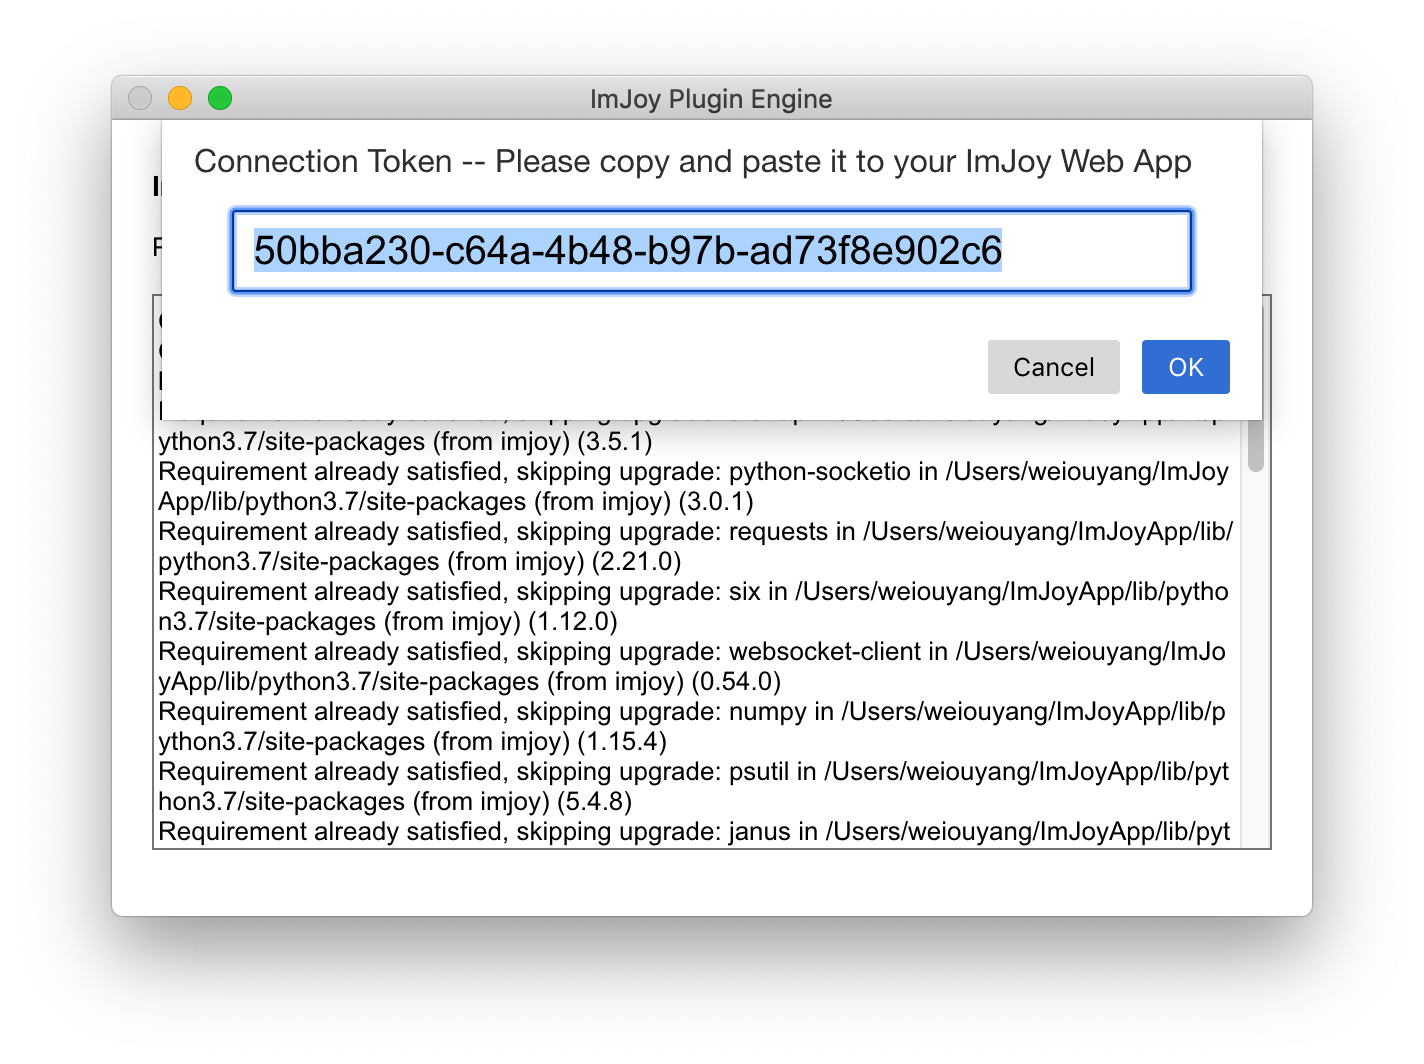
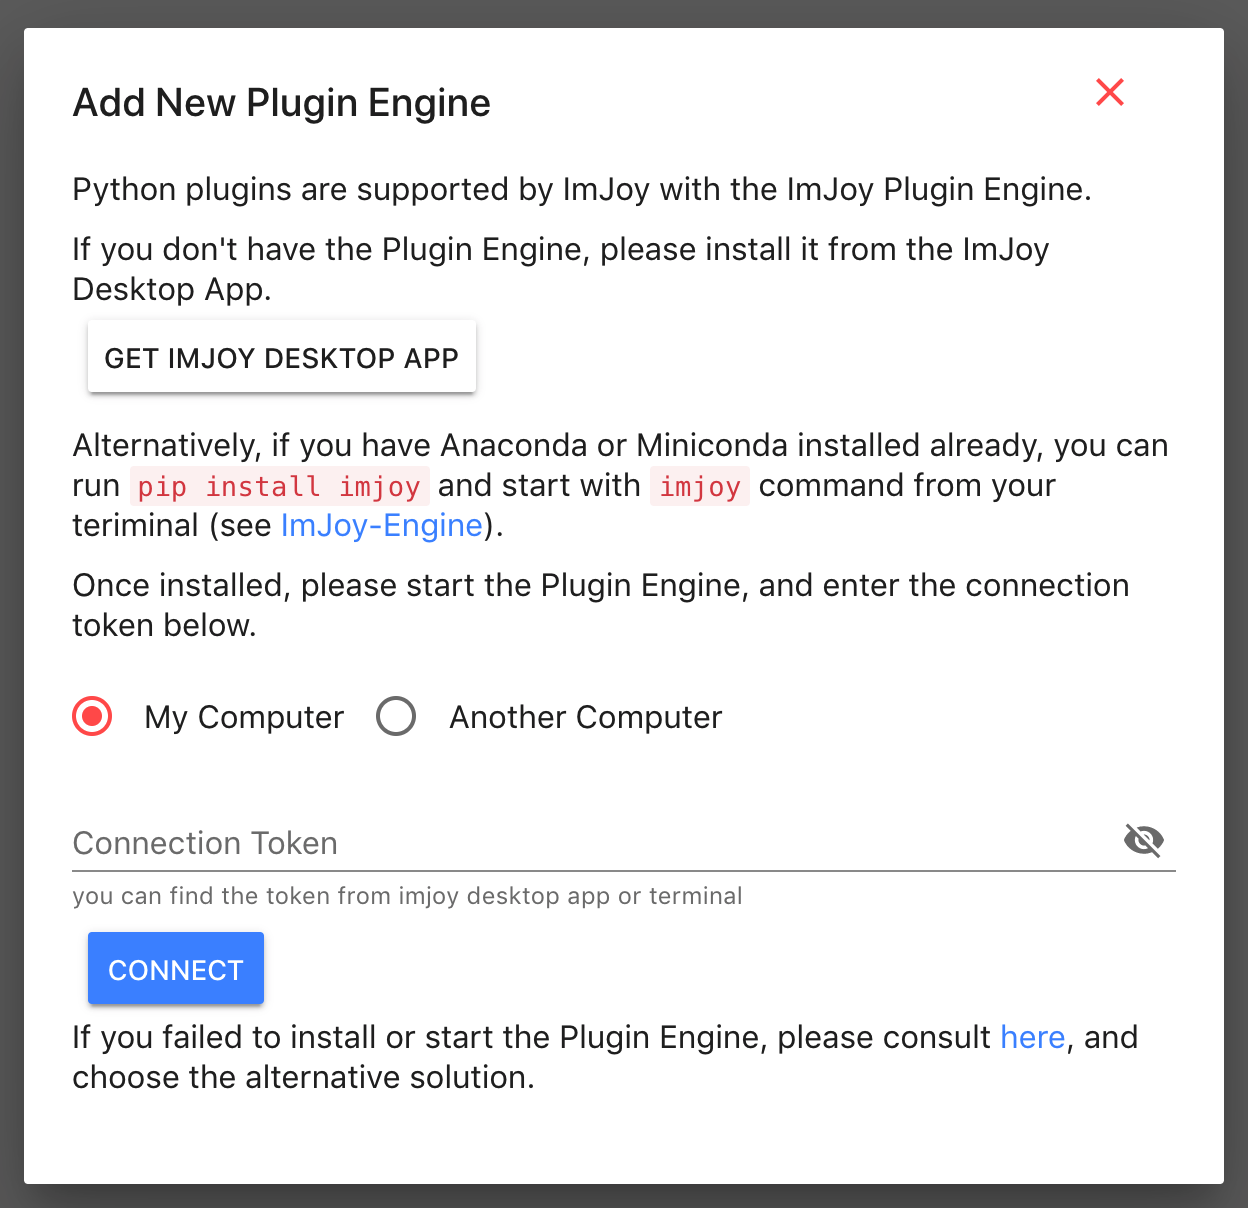
Improve docs about offline and remote access (#231)
* improve docs about offline and remote access

* fix format

* small fix

* add pointers for tutorials in HTML, async etc.

* add instructions about https for cameras etc.

diff --git a/web/src/components/EngineControlPanel.vue b/web/src/components/EngineControlPanel.vue
@@ -158,6 +158,12 @@
           <md-radio v-model="url_type" value="remote"
             >Another Computer</md-radio
           >
+          <p v-if="url_type === 'remote'">
+            You may want to use
+            <a href="https://telebit.cloud/" target="_blank">Telebit</a> or
+            <a href="https://ngrok.com/" target="_blank">ngrok</a> to make your
+            plugin engine available outside your network.
+          </p>
         </div>
         <md-autocomplete
           v-if="url_type === 'remote'"

diff --git a/docs/user_manual.md b/docs/user_manual.md
@@ -34,14 +34,25 @@ Imjoy consists of **three parts**, each part can be extended with plugins:
 
 1. **Native Computational Backend**. This is supported with the installation of an additional Python module called ["ImJoy Plugin Engine"](https://github.com/oeway/ImJoy-Engine). This allows to access the entire Python ecosystem which covers most of the scientific computing applications. With [Conda](https://conda.io), ImJoy plugin engine handles the requirements of plugins automatically and provide isolate processes and virtual environments for different Python plugins. It provides maximum flexibility and has full access to the file system, GPU and other local or remote resources. The plugin engine can be launched either on the local machine, or remotely on a cloud server or a cluster to perform computationally intensive tasks, e.g. with institutional computing cluster, Amazon Cloud, or Google Compute.
 
-## ImJoy App and Plugin Engine
+## ImJoy App
 
-ImJoy can be used  directly from your browser (Chrome or Firefox)
-**without any installation** as the [ImJoy Web App](https://imjoy.io/#/app)
-or as a **standalone** [ImJoy Desktop App](https://github.com/oeway/ImJoy-App/releases).
-Many plugins can be used directly, and you can already get a feeling
-for how ImJoy works.
+ImJoy can be used directly from your browser (Chrome or Firefox) as the [ImJoy Web App](https://imjoy.io/#/app).
 
+ImJoy is built with a new standard called [Progressive Web App](), which brings enhanced user experience.
+Importantly, a technique called `service worker` allow ImJoy to run and most of the plugins run without internet.
+
+While you can already benifit from the PWA support by go to https://imjoy.io with browsers including Chrome, FireFox and Safari.
+
+The recommended way to use it is to install it as PWA, for example, in Chrome you will find the "Install ImJoy.IO" option when you open https://imjoy.io:
+
+![imjoy-install-pwa](assets/imjoy-install-pwa.gif ':size=600')
+
+ImJoy App support mobile devices and tablet, you can find similar install or add to home screen options on mobile browsers such as Safari on iOS and Chrome on Android.
+
+Note that even though ImJoy can run without internet, depending on particular
+plugin implementations, some plugins may still require internet access to function.
+
+## Plugin Engine
 For more advanced processing, the **Python Plugin Engine** is required. The Plugin
 Engine allows to run native Python (`native-python`) plugins. We provide two ways
 to obtain this engine:
@@ -49,6 +60,7 @@ to obtain this engine:
 1.  The plugin engine is included in the ImJoy Desktop App. After installing the
     [Desktop App](https://github.com/oeway/ImJoy-App/releases), you can start the engine
     with the button `START PLUGINE ENGINE`.
+    
     ![imjoy-app-start-screen](assets/imjoy-app-start-screen.png ':size=400')
 
 2. You can download and install it with a command line script as described [here](https://github.com/oeway/ImJoy-engine).
@@ -56,125 +68,32 @@ to obtain this engine:
 Once you start the engine, it will automatically check for updates.
 
 You can then connect to the engine either from the Imjoy Web App or Desktop App.
-Click the 🚀 symbol located at the top-right corner. This will open a dialog and
-ask you for the `Plugin Engine URL` and `Connection token`.
+Click the 🚀 symbol located at the top-right corner and select `Add Plugin Engine 🚀`. This will open a dialog and
+ask you for the `Connection token` which can be obtained from your Plugin Engine window or terminal.
 
-![imjoy-install-engine](assets/imjoy-install-engine.png ':size=600')
+![imjoy-connection-token](assets/imjoy-connection-token.png ':size=400')
 
-You can keep the default `Plugin Engine URL`(`http://127.0.0.1:9527`), and go to
-your Plugin Engine dialog or terminal window to get the `Connection token`.
+You can choose to connect to the same computer or another computer. 
 
-![imjoy-connection-token](assets/imjoy-connection-token.png ':size=600')
+If you choose to connect to another computer or server (e.g. on dedicated processing workstations, computational clusters, or
+the cloud), what you need is to fill in the corresponding `Plugin Engine URL` and the `Connection token`.
 
 Please note, that the connection token will be saved in the browser and you will
 not need to enter it anymore to connect to this Plugin Engine.
 **KEEP THIS TOKEN PRIVATE!!!!**
 
-## Using ImJoy offline
+### Setup a remote plugin engine
 
-The ImJoy app (web or desktop) requires by default internet access. It relies on
-different small libraries that are downloaded at each launch. You can also use the ImJoy app in
-an offline mode. In this case, all necessary files have to be downloaded first.
+By default a local plugin engine won't allow access from outside. In order to make your plugin engine accessible from outside, the easiest way is to use an existing tunnelling service which will expose your plugin engine through a secured public URL.
 
-Note that even though ImJoy can run without internet, depending on particular
-plugin implementations, some might be unusable when offline.
-
-Two options for offline usage exist:
-
-1. **Desktop app**. On the start-up screen you can choose `RUN IMJOY OFFLINE`. If
-  you press this button, the app will download all necessary files required
-  for offline use. After the initial download, you can then use ImJoy offline.
-
-2. **Web app**. If you prefer to use ImJoy in the browser, you can download all
-  necessary files via the plugin engine. For this, you need to install the latest
-  version of the [**ImJoy App**](https://github.com/oeway/ImJoy-Engine/releases).
-  You can then serve the static ImJoy web app. This requires some simple steps in
-  the  terminal:
-
-  1. Update the `$PATH` settings as also [below](#access-the-plugin-engine-from-a-command-line-interface).
-      ```bash
-      # linux and mac
-      export PATH=~/ImJoyApp/bin:$PATH
-
-      # windows
-      $env:Path = '%systemdrive%%homepath%\ImJoyApp;%systemdrive%%homepath%\ImJoyApp\Scripts;' + $env:Path;
-      ```
-  0. Execute the following command in the terminal. This will download all files
-     necessary for offline access.
-      ```bash
-      python -m imjoy --serve
-      ```
-  0. You now have your locally available ImJoy web app that your can access in your browser
-     with this url [(http://127.0.0.1:9527)](http://127.0.0.1:9527).
+There are at least several such services, for example, you can use Telebit to generate an public URL for your plugin eneing:
+1. goto https://telebit.cloud/ and follow the installation guide to install Telebit and register with your email.
+2. Once success, you will get a permenent URL (e.g.: https://shaggy-pig-23.telebit.io ) which can be used later.
+3. Now if you start your plugin engine, and run `~/telebit http 9527`
+4. You or your collabrators can then access your plugin engine remotely with engine url (e.g. https://shaggy-pig-23.telebit.io) and the connection token you get previously.
 
 
-## Access Plugin Engine from command line
-The installation of the Plugin Engine will setup an **Miniconda environment**
-located in `~/ImJoyApp`. You can access this Miniconda environment from the
-command line interface.
-
-For **Linux or MacOS**, you need to add `~/ImJoyApp/bin` to your `$PATH`:
-```bash
-export PATH=~/ImJoyApp/bin:$PATH
-
-# now you can use `conda`, `pip`, `python` provided from ~/ImJoyApp
-which conda
-
-# start the plugin engine
-python -m imjoy
-
-```
-
-For **Windows**, you can use a powershell and add the ImJoyApp to `$env.Path`:
-```bash
-$env:Path = '%systemdrive%%homepath%\ImJoyApp;%systemdrive%%homepath%\ImJoyApp\Scripts;' + $env:Path;
-
-# now you can use `conda`, `pip`, `python` provided from ~/ImJoyApp
-(Get-Command conda.exe).Path
-
-# start the plugin engine
-python -m imjoy
-```
-
-
-## Using the Plugin Engine remotely
-To perform computational intensive calculations you can launch the Plugin Engine
-remotely, e.g. on dedicated processing workstations, computational clusters, or
-the cloud. Please note that the [**ImJoy token system**](#plugin-engine) prevent
-unauthorized access.
-
-Installing and connecting to such a remote Plugin engine can
-be achieved in a few steps. You first install the plugin engine and configure it
-for command line access as [describe above](#access-the-plugin-engine-from-a-command-line-interface).
-You can launch the Plugin Engine from a terminal (e.g. by `ssh`) and specify the
-host to allow outside connections. In order to connect to the Plugin Engine,
-you will need the **connection token** and the `hostname` or the IP address
-of your remote machine. Depending on your IT security restrictions,
-you might need to contact your IT department.
-
-
-1. Install Python plugin engine on the remote computer. If this remote machine is
-  running under Linux, you can connect with SSH, and run a provided installation
-  script: `wget https://raw.githubusercontent.com/oeway/ImJoy-Engine/master/utils/Linux_Install.sh  -O - | bash`.
-  Otherwise, download it from [GitHub](https://github.com/oeway/ImJoy-App/releases).
-
-0. Update the `$PATH` settings as explained [above](#launch-the-plugin-engine-on-remote-machine).
-  For Linux or Mac, use `export PATH=~/ImJoyApp/bin:$PATH`
-
-0. Launch Python plugin engine on remote computer and allow access. We recommend
-  to login the remote server with SSH, start the plugin engine with `python -m imjoy --serve --host=0.0.0.0`.
-  By default, the host is to `127.0.0.1`, which allows only local connections. For remote access, the host is set to `0.0.0.0`.
-  The plugin engine will be launched and serve a copy of the ImJoy app through `http://YOUR_REMOTE_IP:9527`.
-  At the end of the initialisation process, it will display the **connection token**.
-  Copy it from the terminal, since you will need it in the next step. **KEEP THIS TOKEN PRIVATE!!!!**
-
-0. If you have a domain name or host name configured to your host, you can specify it by using `--base_url=YOUR_REMOTE_HOST`. For example:  `python -m imjoy --serve --host=0.0.0.0 --base_url=https://hello-imjoy.com`. With this approach, you can also configure a `https` proxy with [nginx for example](https://docs.nginx.com/nginx/admin-guide/security-controls/securing-http-traffic-upstream/), and then your will be able to use your server with `https://imjoy.io`.
-
-0. On your local machine, use your web browser to access the ImJoy app on the remote machine
-  with `http://YOUR_REMOTE_IP:9527` (instead of `https://imjoy.io` ). Then connect
-  to the plugin engine by using `http://YOUR_REMOTE_IP:9527` as host and
-  the **connection token** you get when you start the engine. If you have `base_url` configured, please replace `YOUR_REMOTE_IP` to your actual domain name or host name.
-
+The nice thing about using telebit is that you will have a fixed URL. Alternatively, you can also try with [ngrok](https://ngrok.com/) if Telebit did not work for you. Importantly, your command will be `ngrok http --host-header=rewrite 9527`. Notice that, although you can use ngrok without signup, but you will have a certain time limit and connection number.
 
 
 <!--

diff --git a/docs/development.md b/docs/development.md
@@ -58,6 +58,21 @@ Congratulations! You just made your first ImJoy plugin.
 
 Feel free to modify the code, save and run again. To understand more, please proceed further.
 
+If you are new to web development (Javascript, HTML, CSS etc.), you may want to take a look at a few tutorials on [W3School](https://www.w3schools.com/).
+
+Specifically, we recommend to go through the following tutorials:
+ * [HTML](https://www.w3schools.com/html/default.asp) for adding elements such as text box and buttons to the web user interface;
+ * [CSS](https://www.w3schools.com/css/default.asp) for changing the visual style of HTML elements;
+ * [Javascript](https://www.w3schools.com/js/default.asp) for operating the HTML/CSS, perform logic code and computation;
+ * [JSON](https://www.w3schools.com/js/js_json_syntax.asp) is a format we used to configure plugins.
+ * [Python](https://www.w3schools.com/python/default.asp) for perform computation tasks.
+
+An important programming style you are going to use heavily in ImJoy plugin development is Asynchronous Programming. It is a way to achieve concurency (alternative to `Processes` and `Threads`), such that you can perform mulitple operations(e.g. run independent steps in a workflow) concurrently. For more information about Asynchronous programming, we refer to a number of excellent ressources:
+
+* [Introduction to Promise in JS](https://developers.google.com/web/fundamentals/primers/promises)
+* [Async functions for JS](https://developers.google.com/web/fundamentals/primers/async-functions)
+* [Async programming in Python](http://maked.io/async-programming-in-python/)
+
 ### Debugging
 During plugin development, errors and related information will be forwarded
 and shown in the status bar or as message in the snackbar.
@@ -389,6 +404,9 @@ For `window` plugins, the following permissions can be decleared:
  ```
  "permissions": ["camera"],
  ```
+
+ **Notice** devices such as camera and microphone can only work when ImJoy is served as `https`, this means your plugin will work if you run it from https://imjoy.io, but it won't run if you are using your own ImJoy server served through `http`. A workaround is to run a tunneling service such as [Telebit](https://telebit.cloud) or [ngrok](https://ngrok.com) to convert your `http` url to `https`. Again, you won't need this if you use https://imjoy.io.
+
 
 #### requirements
 Defines the plugin requirements.
@@ -1345,3 +1363,61 @@ The following url parameters are currently supported:
       If you are starting a window plugin, you can also set `standalone` or `fullscreen` to `1` to make the window detached from the workspace or in full screen mode. For example: `https://imjoy.io/#/app?x=123&start=AwesomeWindowPlugin&fullscreen=1`.
 
  *   `load` or `l`: define an URL for making a http GET request, this parameter should only used when you defined a startup plugin with `start` or `s`. The data fetched from the URL will be passed to the startup plugin `run(ctx)` function as `ctx.data.loaded`.
+
+
+## Access Plugin Engine from command line
+The installation of the Plugin Engine will setup an **Miniconda environment**
+located in `~/ImJoyApp`. You can access this Miniconda environment from the
+command line interface.
+
+For **Linux or MacOS**, you need to add `~/ImJoyApp/bin` to your `$PATH`:
+```bash
+export PATH=~/ImJoyApp/bin:$PATH
+
+# now you can use `conda`, `pip`, `python` provided from ~/ImJoyApp
+which conda
+
+# start the plugin engine
+python -m imjoy
+
+```
+
+For **Windows**, you can use a powershell and add the ImJoyApp to `$env.Path`:
+```bash
+$env:Path = '%systemdrive%%homepath%\ImJoyApp;%systemdrive%%homepath%\ImJoyApp\Scripts;' + $env:Path;
+
+# now you can use `conda`, `pip`, `python` provided from ~/ImJoyApp
+(Get-Command conda.exe).Path
+
+# start the plugin engine
+python -m imjoy
+```
+
+## Setup your own server for ImJoy App and the Plugin Engine
+
+While you can run the plugin engine to run computation tasks, you can also use it to serve a mirrored version of ImJoy app (with the `--serve` option).
+Follow these steps, and you will be able to run ImJoy server and the plugin engine yourself:
+
+1. Install Python plugin engine on the remote computer. If this remote machine is
+  running under Linux, you can connect with SSH, and run a provided installation
+  script: `wget https://raw.githubusercontent.com/oeway/ImJoy-Engine/master/utils/Linux_Install.sh  -O - | bash`.
+  Otherwise, download it from [GitHub](https://github.com/oeway/ImJoy-App/releases).
+
+0. Update the `$PATH` settings as explained [above](#access-the-plugin-engine-from-a-command-line-interface).
+  For Linux or Mac, use `export PATH=~/ImJoyApp/bin:$PATH`
+
+0. Launch Python plugin engine on remote computer and allow access. We recommend
+  to login the remote server with SSH, start the plugin engine with `python -m imjoy --serve --host=0.0.0.0`.
+  By default, the host is to `127.0.0.1`, which allows only local connections. For remote access, the host is set to `0.0.0.0`.
+  The plugin engine will be launched and serve a copy of the ImJoy app through `http://YOUR_REMOTE_IP:9527`.
+  At the end of the initialisation process, it will display the **connection token**.
+  Copy it from the terminal, since you will need it in the next step. **KEEP THIS TOKEN PRIVATE!!!!**
+
+0. If you have a domain name or host name configured to your host, you can specify it by using `--base_url=YOUR_REMOTE_HOST`. For example:  `python -m imjoy --serve --host=0.0.0.0 --base_url=https://hello-imjoy.com`. With this approach, you can also configure a `https` proxy with [nginx for example](https://docs.nginx.com/nginx/admin-guide/security-controls/securing-http-traffic-upstream/), and then your will be able to use your server with `https://imjoy.io`.
+
+0. On your local machine, use your web browser to access the ImJoy app on the remote machine
+  with `http://YOUR_REMOTE_IP:9527` (instead of `https://imjoy.io` ). Then connect
+  to the plugin engine by using `http://YOUR_REMOTE_IP:9527` as host and
+  the **connection token** you get when you start the engine. If you have `base_url` configured, please replace `YOUR_REMOTE_IP` to your actual domain name or host name.
+
+0. Importantly, the ImJoy app served from https://imjoy.io won't be able to connect a remote plugin engine served with http. You will need to setup your own https proxy, or use an existing one such as [Telebit](https://telebit.cloud/) or [ngrok](https://ngrok.com/).

diff --git a/docs/api.md b/docs/api.md
@@ -33,13 +33,6 @@ considerations
 
 In the following list of API functions, we provided examples in `async` style. For Python 2, you can easily convert to callback style accordingly.
 
-For more information about Asynchronous programming, we refer to a number of
-excellent ressources:
-
-* [Introduction to Promise in JS](https://developers.google.com/web/fundamentals/primers/promises)
-* [Async functions for JS](https://developers.google.com/web/fundamentals/primers/async-functions)
-* [Asynchronous I/O module for Python 3+](https://docs.python.org/3/library/asyncio.html).
-
 
 ### async/await style
 This style is natively supported and recommended for Javascript and Python 3+ plugins.
